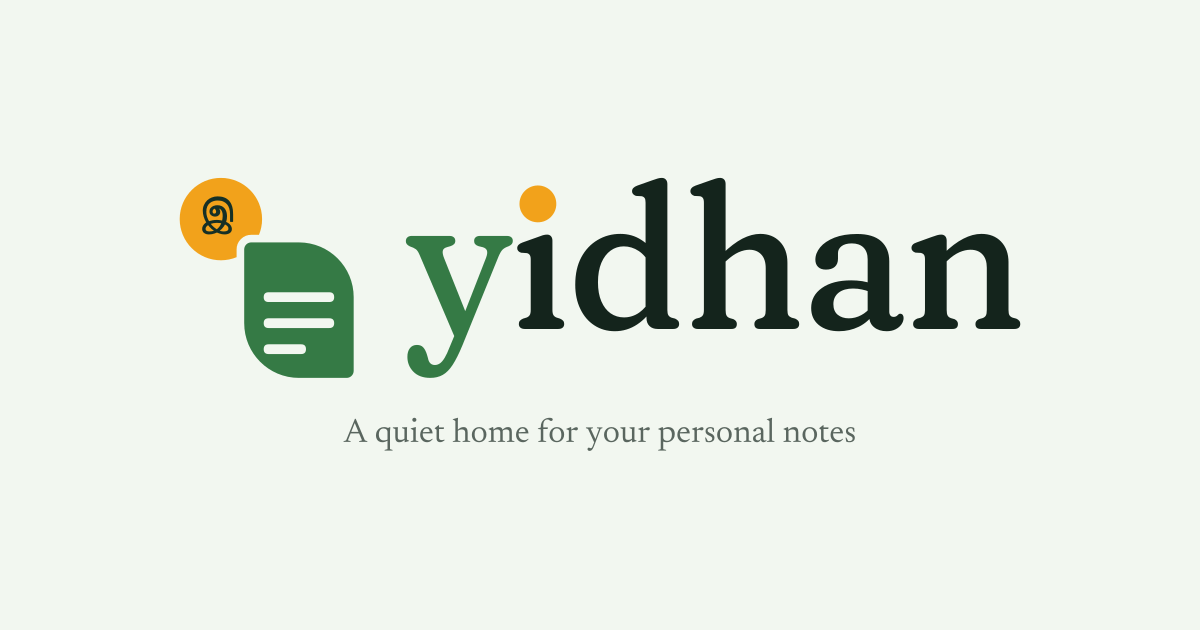
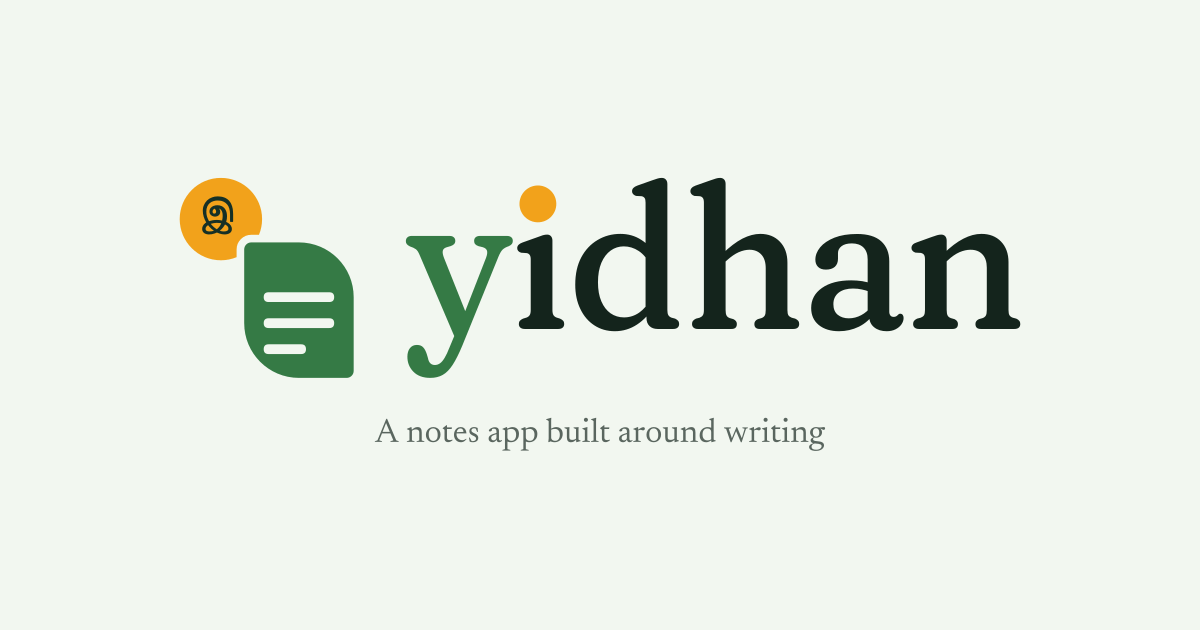
Share image: new tagline "A notes app built around writing" (#276)
The OG image still carried the old tagline after the landing copy changed.
Change TAGLINE in scripts/brand/flatten.py, regenerate og-tagline.svg and
public/og-image.png (still 1200x630), and bump the og:image and
twitter:image cache-buster to ?v=4.

Changed region(s): [[0.2775, 0.6635, 0.7092, 0.7238]]

diff --git a/index.html b/index.html
@@ -40,7 +40,7 @@
     <meta property="og:description" content="A notes app built around writing. Works offline. Notes are encrypted on your device before they sync. Free and open source, and no account needed to try." />
     <meta property="og:type" content="website" />
     <meta property="og:url" content="https://yidhan.vercel.app" />
-    <meta property="og:image" content="https://yidhan.vercel.app/og-image.png?v=3" />
+    <meta property="og:image" content="https://yidhan.vercel.app/og-image.png?v=4" />
     <meta property="og:image:width" content="1200" />
     <meta property="og:image:height" content="630" />
     <link rel="canonical" href="https://yidhan.vercel.app" />
@@ -49,7 +49,7 @@
     <meta name="twitter:card" content="summary_large_image" />
     <meta name="twitter:title" content="Yidhan — A notes app built around writing" />
     <meta name="twitter:description" content="A notes app built around writing. Works offline. Notes are encrypted on your device before they sync. Free and open source, and no account needed to try." />
-    <meta name="twitter:image" content="https://yidhan.vercel.app/og-image.png?v=3" />
+    <meta name="twitter:image" content="https://yidhan.vercel.app/og-image.png?v=4" />
 
     <!-- Fonts are self-hosted (src/fonts.css). Preload the latin Newsreader face
          every page paints with, and the display cut the headline uses, so they

diff --git a/scripts/brand/flatten.py b/scripts/brand/flatten.py
@@ -22,7 +22,7 @@ EXPORT = 'images/brand/export/'
 NEWSREADER = 'src/assets/fonts/newsreader-roman-latin.woff2'
 # The share image's tagline, outlined so the OG script needs no font (sharp's text
 # renderer cannot read woff2). scripts/generate-og-image.ts places it.
-TAGLINE = 'A quiet home for your personal notes'
+TAGLINE = 'A notes app built around writing'
 TS_OUT = 'src/components/logoPaths.ts'
 INDEX_HTML = 'index.html'
 SPRITE_START, SPRITE_END = '<!-- logo sprite: scripts/brand/flatten.py -->', '<!-- /logo sprite -->'
